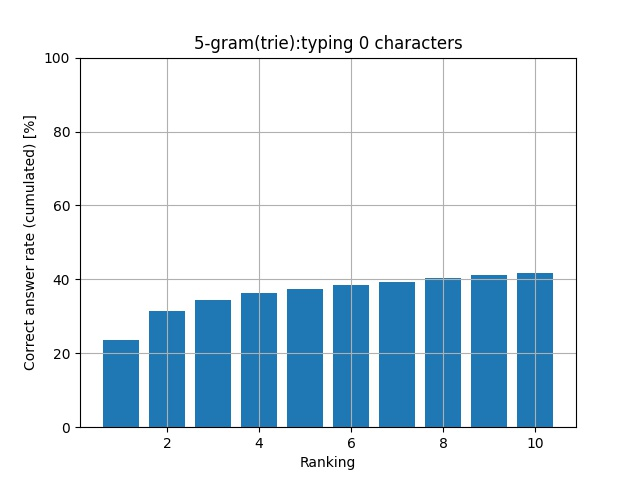
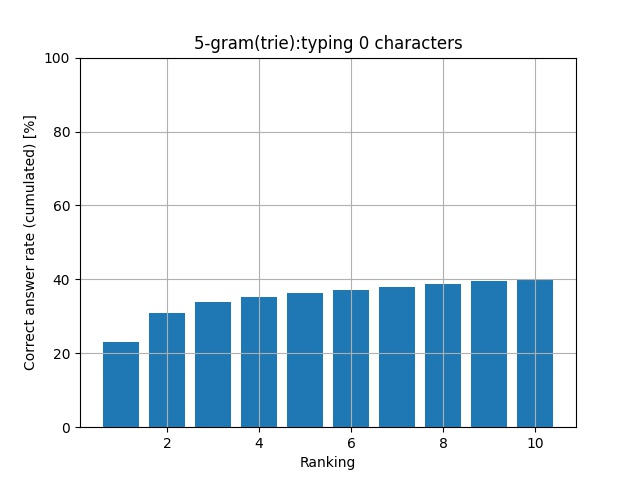
全評価用ファイルで精度を評価した

diff --git a/assess_accuracy.py b/assess_accuracy.py
@@ -117,7 +117,7 @@ def assess_mml_accuracy(model):
     for i in mml_lar.readlines():
         mml.append(i.replace('\n', '.json'))
     mml_lar.close()
-    for file_path in mml[1100:1120]:
+    for file_path in mml[1100:1356]:
         print(file_path)
         try:
             file_all_result, file_predictable_num, file_all_token_nums, file_prediction_times = assess_file_accuracy(
@@ -134,18 +134,13 @@ def assess_mml_accuracy(model):
             all_result.setdefault(i, np.array([0 for _ in range(Ranking_Number)]))
             all_token_nums.setdefault(i+1, 0)
             all_result[i] += np.array(file_all_result[i])
-            # print(all_token_nums)
-            # print(file_all_token_nums[i])
             all_token_nums[i+1] += np.array(file_all_token_nums[i+1])
 
     for i in range(3):
         prediction_result = all_result[i]
-        print(prediction_result)
         draw(model.N, prediction_result, prediction_times, i)
         # i(>0)文字以下は予測対象外なので除外
         prediction_times -= all_token_nums[i+1]
-        print(f'prediction_times:{prediction_times}')
-    print('end')
 
 
 
@@ -161,7 +156,6 @@ def draw(N, prediction_result, prediction_times, i):
     total = prediction_times
 
     left = np.array([i+1 for i in range(len(result))])
-    print(f'result:{result}, total:{total}')
     height = np.array(result.cumsum()/total) * 100
     plt.bar(left, height)
     count = 0

diff --git a/trie_ngram_model.py b/trie_ngram_model.py
@@ -179,8 +179,6 @@ if __name__ == '__main__':
     #     'scmfsa_2.json', trie_model)
 
     assess_mml_accuracy(trie_model)
-
     np.set_printoptions(precision=1)
-
     elapsed_time = time.time() - start_time
-    print (f"elapsed_time:{elapsed_time}")
+    print(f"elapsed_time:{elapsed_time}")
